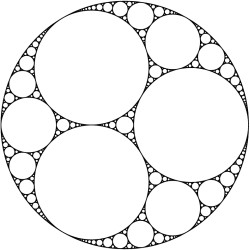
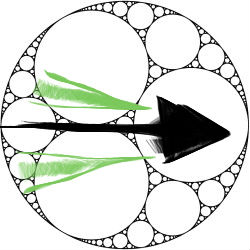
added a playeractor

Changed region(s): [[0.0, 0.28, 0.924, 0.784]]

diff --git a/Game/core/src/com/yox89/ld32/actors/PlayerActor.java b/Game/core/src/com/yox89/ld32/actors/PlayerActor.java
@@ -1,0 +1,121 @@
+package com.yox89.ld32.actors;
+
+import com.badlogic.gdx.Gdx;
+import com.badlogic.gdx.Input.Keys;
+import com.badlogic.gdx.graphics.Texture;
+import com.badlogic.gdx.graphics.g2d.Batch;
+import com.badlogic.gdx.physics.box2d.Body;
+import com.badlogic.gdx.physics.box2d.BodyDef;
+import com.badlogic.gdx.physics.box2d.CircleShape;
+import com.badlogic.gdx.physics.box2d.FixtureDef;
+import com.badlogic.gdx.physics.box2d.PolygonShape;
+import com.badlogic.gdx.physics.box2d.World;
+import com.badlogic.gdx.physics.box2d.BodyDef.BodyType;
+import com.yox89.ld32.util.Collision;
+import com.yox89.ld32.util.PhysicsUtil.BodyParams;
+
+public class PlayerActor extends PhysicsActor {
+
+	private static final float ROTATION_UP = 90;
+	private static final float ROTATION_DOWN = -90;
+	private static final float ROTATION_RIGHT = 0;
+	private static final float ROTATION_LEFT = 180;
+
+	private Texture bodyTexture;
+	private float speed;
+	private float angularSpeed;
+
+	public PlayerActor(Texture bodyTexture,World world) {
+		this.bodyTexture = bodyTexture;
+		this.speed = 10f;
+		this.angularSpeed = 3;
+		setSize(5f, 5f);
+		
+		
+		
+		initPhysicsBody(createBody(world, BodyType.StaticBody, Collision.WORLD, (short)(Collision.WORLD | Collision.PLAYER)));
+
+	}
+
+	@Override
+	public void act(float delta) {
+		super.act(delta);
+		if (Gdx.input.isKeyPressed(Keys.UP)) {
+			moveBy(0f, delta * speed);
+			rotateTowards(ROTATION_UP, angularSpeed);
+		} else if (Gdx.input.isKeyPressed(Keys.DOWN)) {
+			moveBy(0f, delta * -speed);
+			rotateTowards(ROTATION_DOWN, angularSpeed);
+		} else if (Gdx.input.isKeyPressed(Keys.RIGHT)) {
+			moveBy(delta * speed, 0f);
+			rotateTowards(ROTATION_RIGHT, angularSpeed);
+		} else if (Gdx.input.isKeyPressed(Keys.LEFT)) {
+			moveBy(delta * -speed, 0f);
+			rotateTowards(ROTATION_LEFT, angularSpeed);
+		}
+	}
+
+	private void rotateTowards(float rotationGoal, float rotationChange) {
+		float currentRotation = getRotation() % 360;
+		if (currentRotation > 180) {
+			currentRotation = -180 + (currentRotation - 180);
+		} else if (currentRotation < -180) {
+			currentRotation = 180 + (currentRotation + 180);
+		}
+		
+		boolean leftSemi = currentRotation < -90 || currentRotation > 90;
+		boolean lowerSemi = currentRotation < 0;
+		int clockWise = 1;
+		
+		
+		if (rotationGoal == ROTATION_UP) {
+			clockWise = leftSemi? -1:1;
+		} else if (rotationGoal == ROTATION_DOWN) {
+			clockWise = leftSemi? 1:-1;
+		}else if (rotationGoal == ROTATION_LEFT) {
+			clockWise = lowerSemi? -1:1;
+		}else if (rotationGoal == ROTATION_RIGHT) {
+			clockWise = lowerSemi? 1:-1;
+		}
+		
+		rotateBy(rotationChange*clockWise);
+
+	}
+
+	@Override
+	public void draw(Batch batch, float parentAlpha) {
+		batch.draw(bodyTexture, getX(), getY(),
+				getOriginX() + (getWidth() / 2), getOriginY()
+						+ (getHeight() / 2), getWidth(), getHeight(),
+				getScaleX(), getScaleY(), getRotation(), 0, 0,
+				bodyTexture.getWidth(), bodyTexture.getHeight(), false, false);
+	}
+
+	
+	public static Body createBody(World world, BodyType bodyType, short collisionType, short collisionMask) {
+		final BodyDef bd = new BodyDef();
+		bd.type = bodyType;
+		bd.position.set(0.0f, 10.0f);
+		bd.linearDamping = 0.2f;
+
+		final Body body = world.createBody(bd);
+
+		final FixtureDef fd = new FixtureDef();
+		fd.density = 0.0f;
+		fd.filter.categoryBits = collisionType;
+
+		fd.filter.maskBits = collisionMask;
+
+		fd.restitution = 0.0f;
+		fd.friction = 0.0f;
+
+		final CircleShape shape = new CircleShape();
+		fd.shape = shape;
+
+		body.createFixture(fd);
+
+		shape.dispose();
+
+		return body;
+	}
+}
